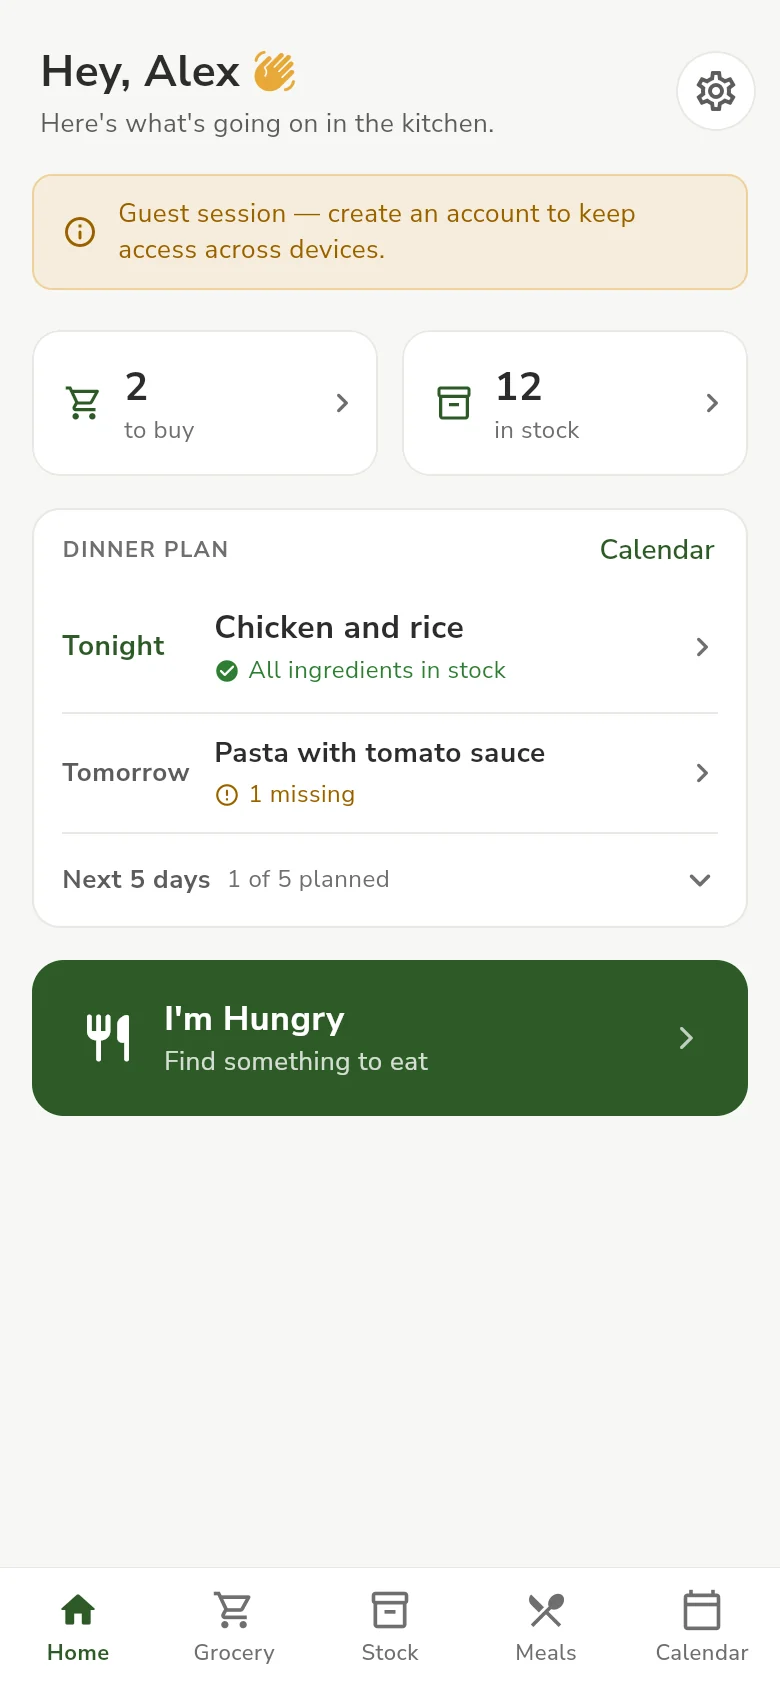
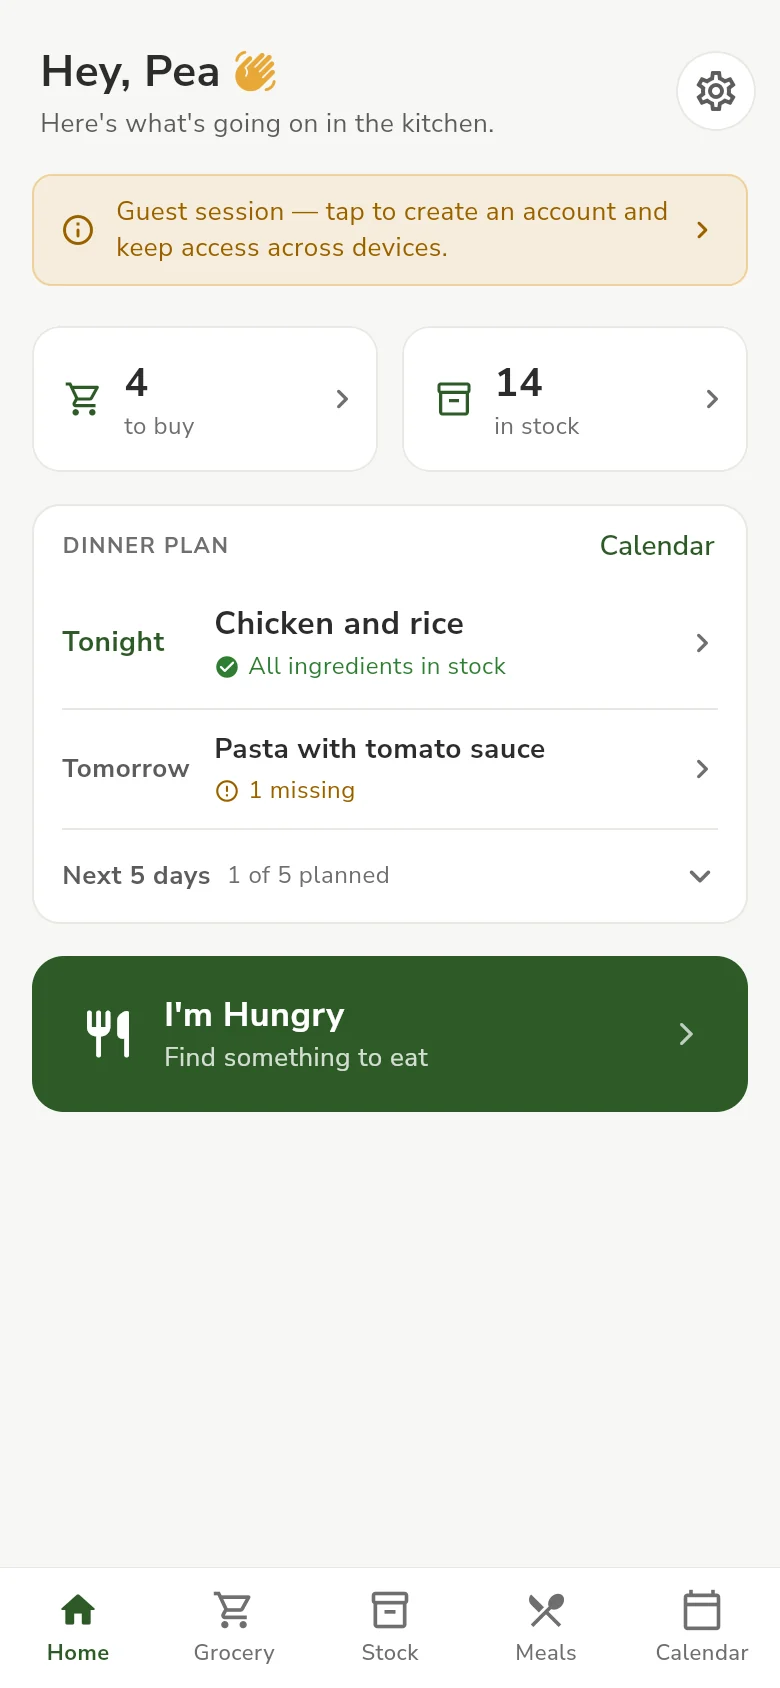
Guide: explain turning a guest session into an account

diff --git a/docs/guide/index.html b/docs/guide/index.html
@@ -161,18 +161,27 @@ dialog#zoom img{max-height:92vh;width:auto;border-radius:24px;margin:0 auto}
     <figure class="step"><div class="phone"><img src="assets/shots/join.webp" alt="Join a Household screen with name and household code fields" loading="lazy"></div>
       <figcaption><span class="num">2</span><span>Type <b>your name</b> (it's shown next to things you add) and the <b>household code</b>, then <b>Join</b>. No email or password needed.</span></figcaption></figure>
     <figure class="step"><div class="phone"><img src="assets/shots/guest-home.webp" alt="Home screen for a guest member with a guest session notice" loading="lazy"></div>
-      <figcaption><span class="num">3</span><span>You're in, and you see the same household as everyone else.</span></figcaption></figure>
+      <figcaption><span class="num">3</span><span>You're in, and you see the same household as everyone else. (The yellow banner is how you make an account later.)</span></figcaption></figure>
   </div>
   <div class="callout warn">
-    <p><b>About that "Guest session" note.</b> When you join with a code, you're a guest on <em>that phone or browser</em>. As far as I can tell in the app today, there's no button to turn a guest into an email account, so keep using the same device and avoid clearing the browser's site data. Switching phones means joining again with the code.</p>
+    <p><b>About that "Guest session" note.</b> When you join with a code you're a guest on <em>that phone or browser</em>. A guest can't sign back in, so <b>don't sign out</b>, and avoid clearing the browser's site data. Better still, turn it into a real account (next step).</p>
   </div>
+
+  <h3>C. Turn your guest session into an account (recommended)</h3>
+  <div class="strip three">
+    <figure class="step"><div class="phone"><img src="assets/shots/guest-home.webp" alt="Home screen with the Guest session banner" loading="lazy"></div>
+      <figcaption><span class="num">1</span><span>On <b>Home</b>, tap the yellow <b>Guest session</b> banner.</span></figcaption></figure>
+    <figure class="step"><div class="phone"><img src="assets/shots/upgrade.webp" alt="Create your account screen with email, password and confirm password" loading="lazy"></div>
+      <figcaption><span class="num">2</span><span>Enter an <b>email</b> and a <b>password</b> (twice), then <b>Create Account</b>. No email is sent and there's nothing to confirm.</span></figcaption></figure>
+  </div>
+  <p>You stay in the same household and keep everything you added. The banner goes away, and from now on you can sign in on any device.</p>
 
   <h3>Signing in later</h3>
   <div class="strip three">
     <figure class="step"><div class="phone"><img src="assets/shots/signin.webp" alt="Welcome back sign-in screen" loading="lazy"></div>
-      <figcaption><span>If you made an account, use <b>Already have an account? Sign in</b> on the first screen with your email and password.</span></figcaption></figure>
+      <figcaption><span>If you have an account, use <b>Already have an account? Sign in</b> on the first screen with your email and password.</span></figcaption></figure>
   </div>
-  <p class="hint">Sign out any time from Settings (bottom of the page).</p>
+  <p class="hint">You can sign out from Settings (bottom of the page). Only do this once you have an account. Guests can't sign back in.</p>
 </div></section>
 
 <!-- 3 GROCERY -->
